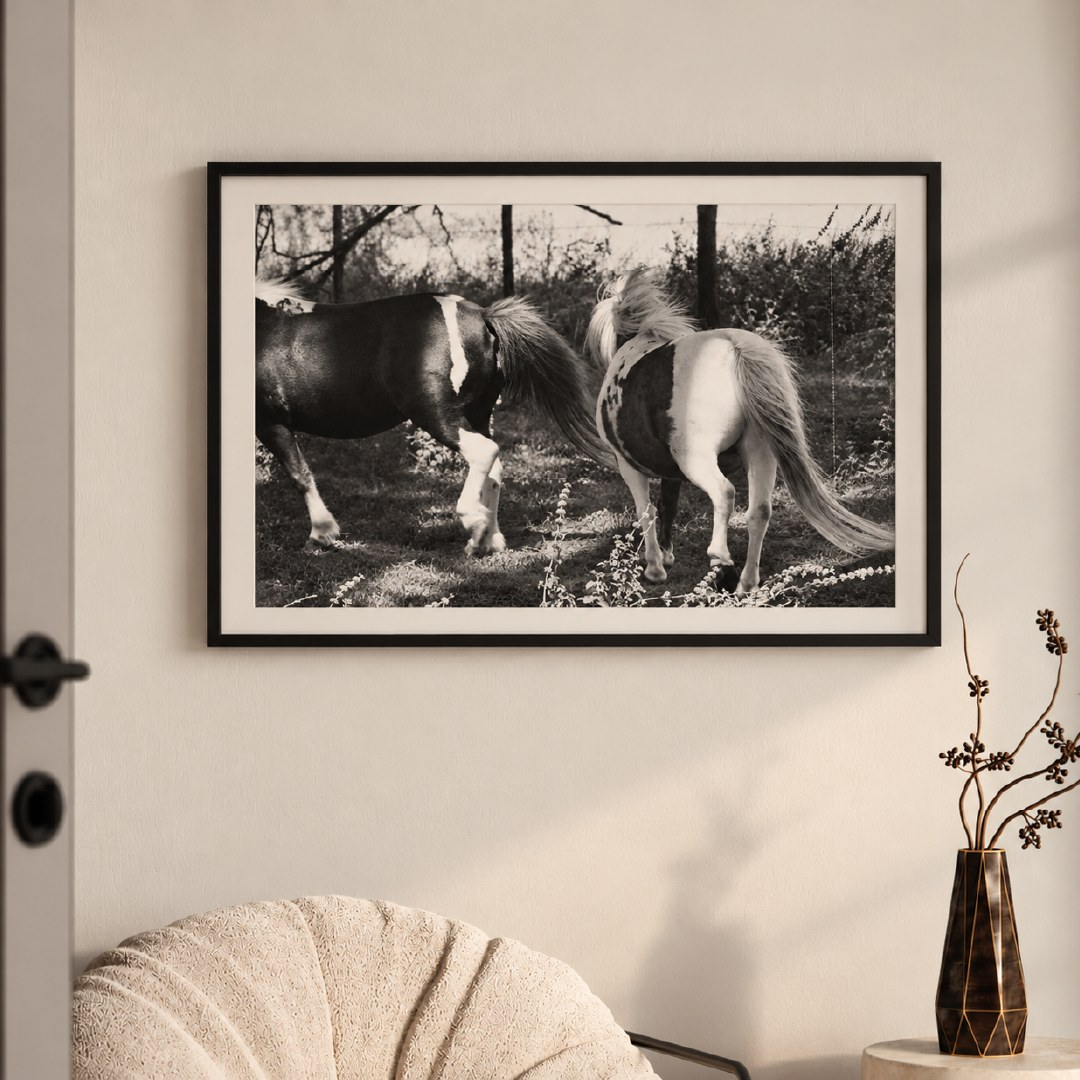
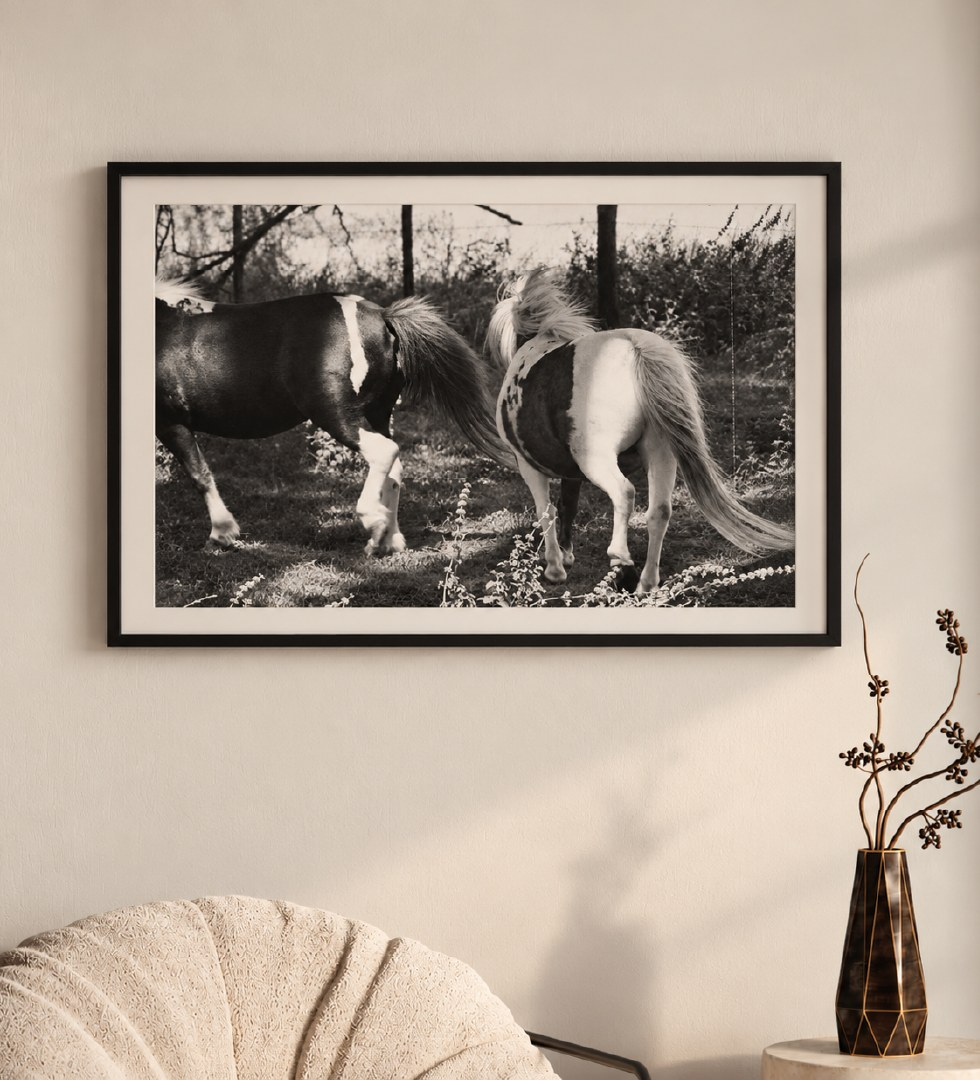
Hero: recortar la puerta de la izquierda
Claude-Session: https://claude.ai/code/session_01FzyeHr4bF1hfGcxUsRWkUX

diff --git a/assets/styles.css b/assets/styles.css
@@ -437,6 +437,6 @@ canvas.cfg { width: 100%; height: 100%; display: block; aspect-ratio: 1; }
 @media (hover: hover) { .card:hover .card-wall.has-amb img.amb { opacity: 1; } }
 .card-wall canvas.cfg[data-pared="blanco"] { background: #fff; }
 .hero-v2 { grid-template-columns: minmax(0, .9fr) minmax(0, 1.1fr); column-gap: clamp(24px, 3vw, 48px); }
-.hero-img { aspect-ratio: 1; }
+.hero-img { aspect-ratio: 980 / 1080; }
 .hero-img img { object-position: 50% 50%; }
 @media (max-width: 900px) { .hero-v2 { grid-template-columns: 1fr; } }
